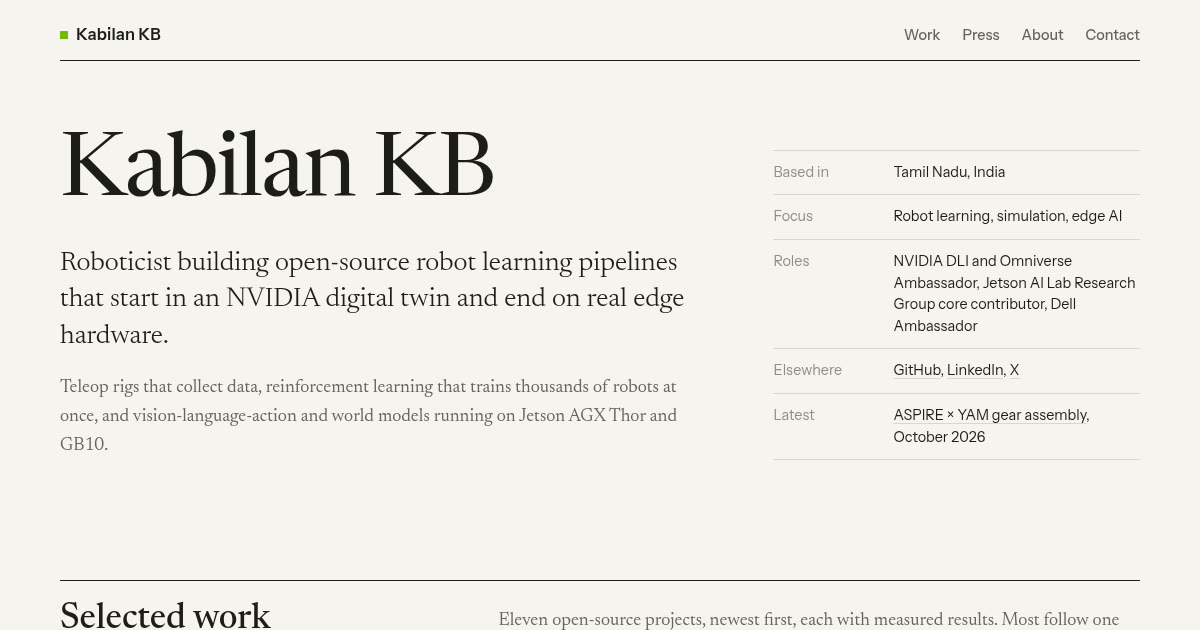
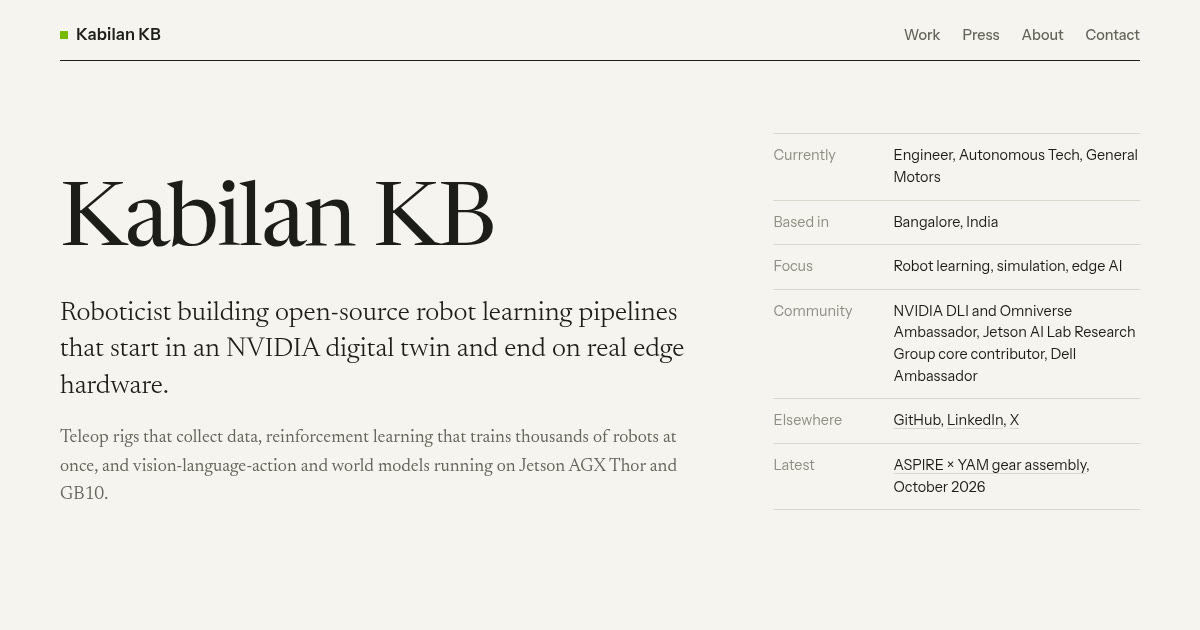
Add current role at General Motors and move location to Bangalore

diff --git a/index.html b/index.html
@@ -152,9 +152,10 @@ section{margin-bottom:96px;scroll-margin-top:16px}
       <p class="more">Teleop rigs that collect data, reinforcement learning that trains thousands of robots at once, and vision-language-action and world models running on Jetson AGX Thor and GB10.</p>
     </div>
     <dl class="facts">
-      <div><dt>Based in</dt><dd>Tamil Nadu, India</dd></div>
+      <div><dt>Currently</dt><dd>Engineer, Autonomous Tech, General Motors</dd></div>
+      <div><dt>Based in</dt><dd>Bangalore, India</dd></div>
       <div><dt>Focus</dt><dd>Robot learning, simulation, edge AI</dd></div>
-      <div><dt>Roles</dt><dd>NVIDIA DLI and Omniverse Ambassador, Jetson AI Lab Research Group core contributor, Dell Ambassador</dd></div>
+      <div><dt>Community</dt><dd>NVIDIA DLI and Omniverse Ambassador, Jetson AI Lab Research Group core contributor, Dell Ambassador</dd></div>
       <div><dt>Elsewhere</dt><dd><a href="https://github.com/kabilankb" target="_blank" rel="noopener">GitHub</a>, <a href="https://www.linkedin.com/in/kabilan-kb" target="_blank" rel="noopener">LinkedIn</a>, <a href="https://x.com/kabilankb2003" target="_blank" rel="noopener">X</a></dd></div>
       <div><dt>Latest</dt><dd><a href="#p11">ASPIRE × YAM gear assembly</a>, October 2026</dd></div>
     </dl>
@@ -336,6 +337,7 @@ section{margin-bottom:96px;scroll-margin-top:16px}
         </dl>
       </div>
       <div class="bio">
+        <p>I work as an engineer in autonomous tech at General Motors, based in Bangalore.</p>
         <p>I started with an autonomous wheelchair on a Jetson Nano, built as an undergraduate at Karunya Institute of Technology and Sciences, which NVIDIA featured on its blog in 2023.</p>
         <p>Since then my work has moved into robot learning. I bring up robots in Isaac Sim and Isaac Lab, collect demonstrations with leader arms and VR, train policies with massively parallel RL, fine-tune and benchmark VLA models without a physical robot, and deploy policies and world models on Jetson AGX Thor and GB10. Every project is open source, with the numbers to show how it performs.</p>
         <p>As an NVIDIA Deep Learning Institute and Omniverse Ambassador I teach Isaac Sim and ROS.</p>
